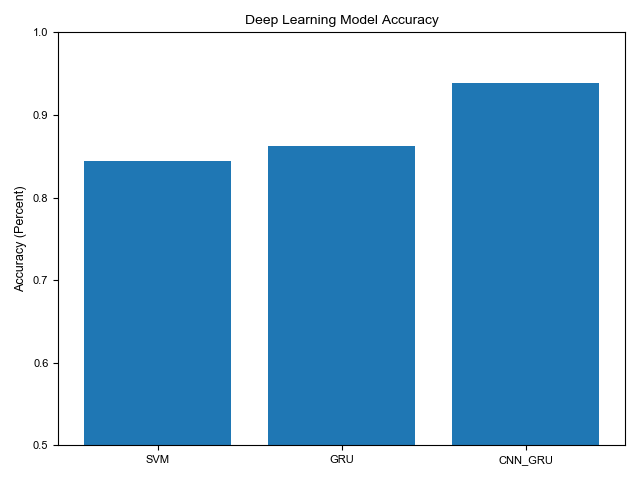
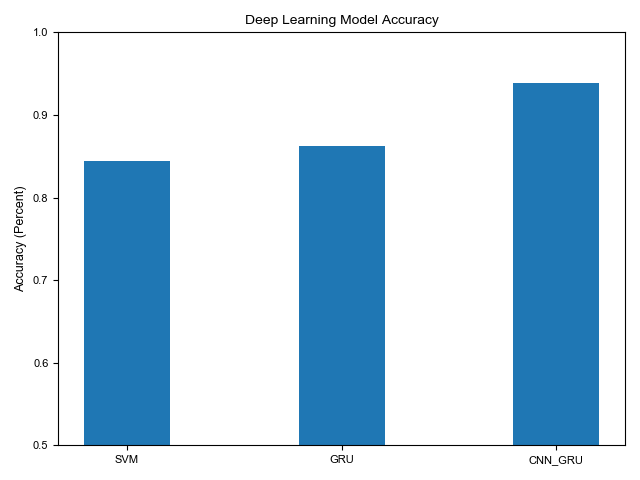
Updated deep learning bar plot.

diff --git a/tf_models/deep_learning_model_comparison.py b/tf_models/deep_learning_model_comparison.py
@@ -53,7 +53,7 @@ plt.savefig('deep_learning_roc.eps', format='eps')
 plt.show()
 plt.close()
 
-plt.bar(range(3), [svm_accuracy, gru_accuracy, cnn_gru_accuracy], tick_label=['SVM', 'GRU', 'CNN_GRU'])
+plt.bar(range(3), [svm_accuracy, gru_accuracy, cnn_gru_accuracy], tick_label=['SVM', 'GRU', 'CNN_GRU'], width=0.4)
 plt.ylabel('Accuracy (Percent)', fontsize=9)
 
 plt.xticks(fontsize=8)
